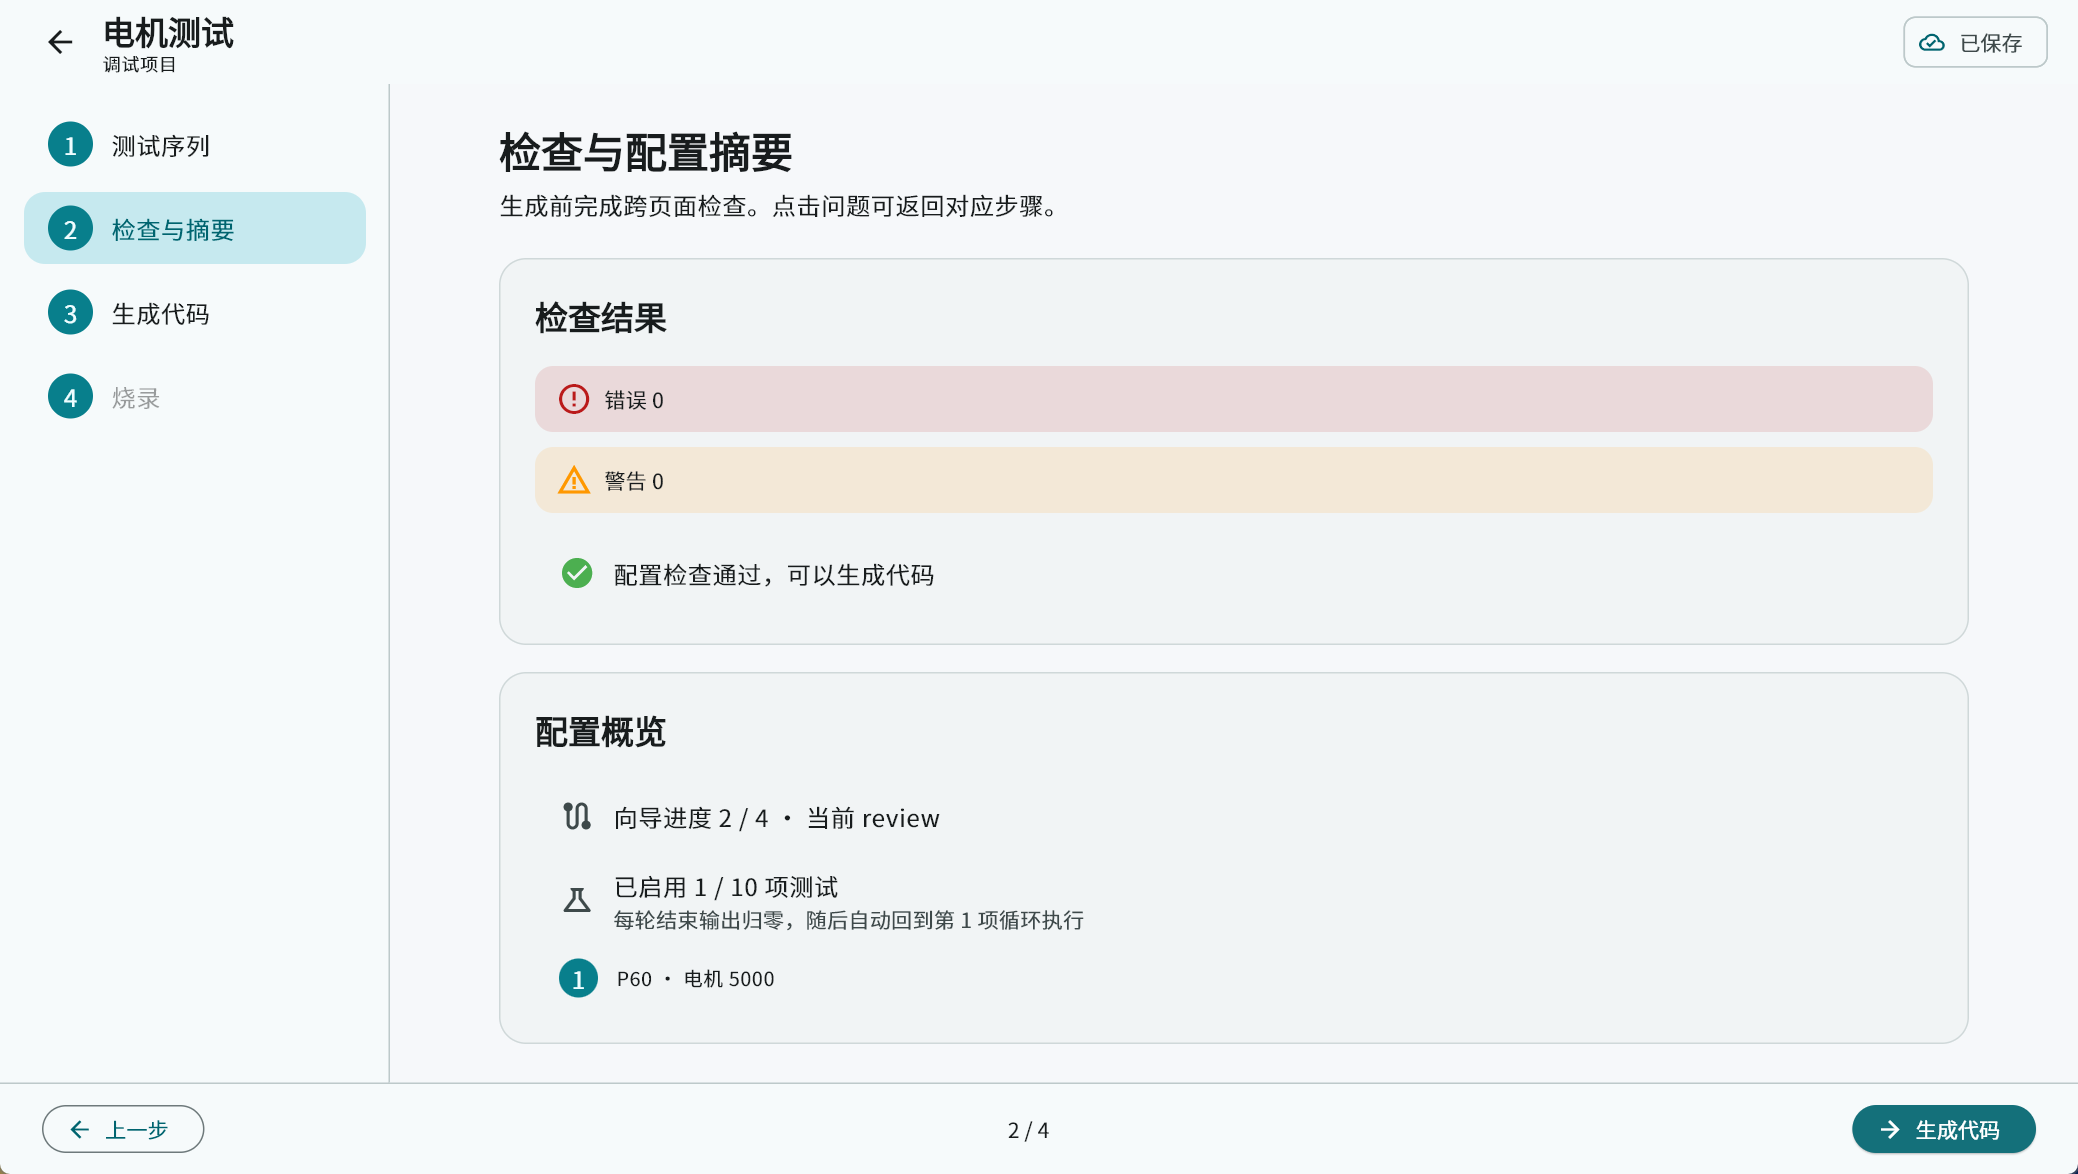
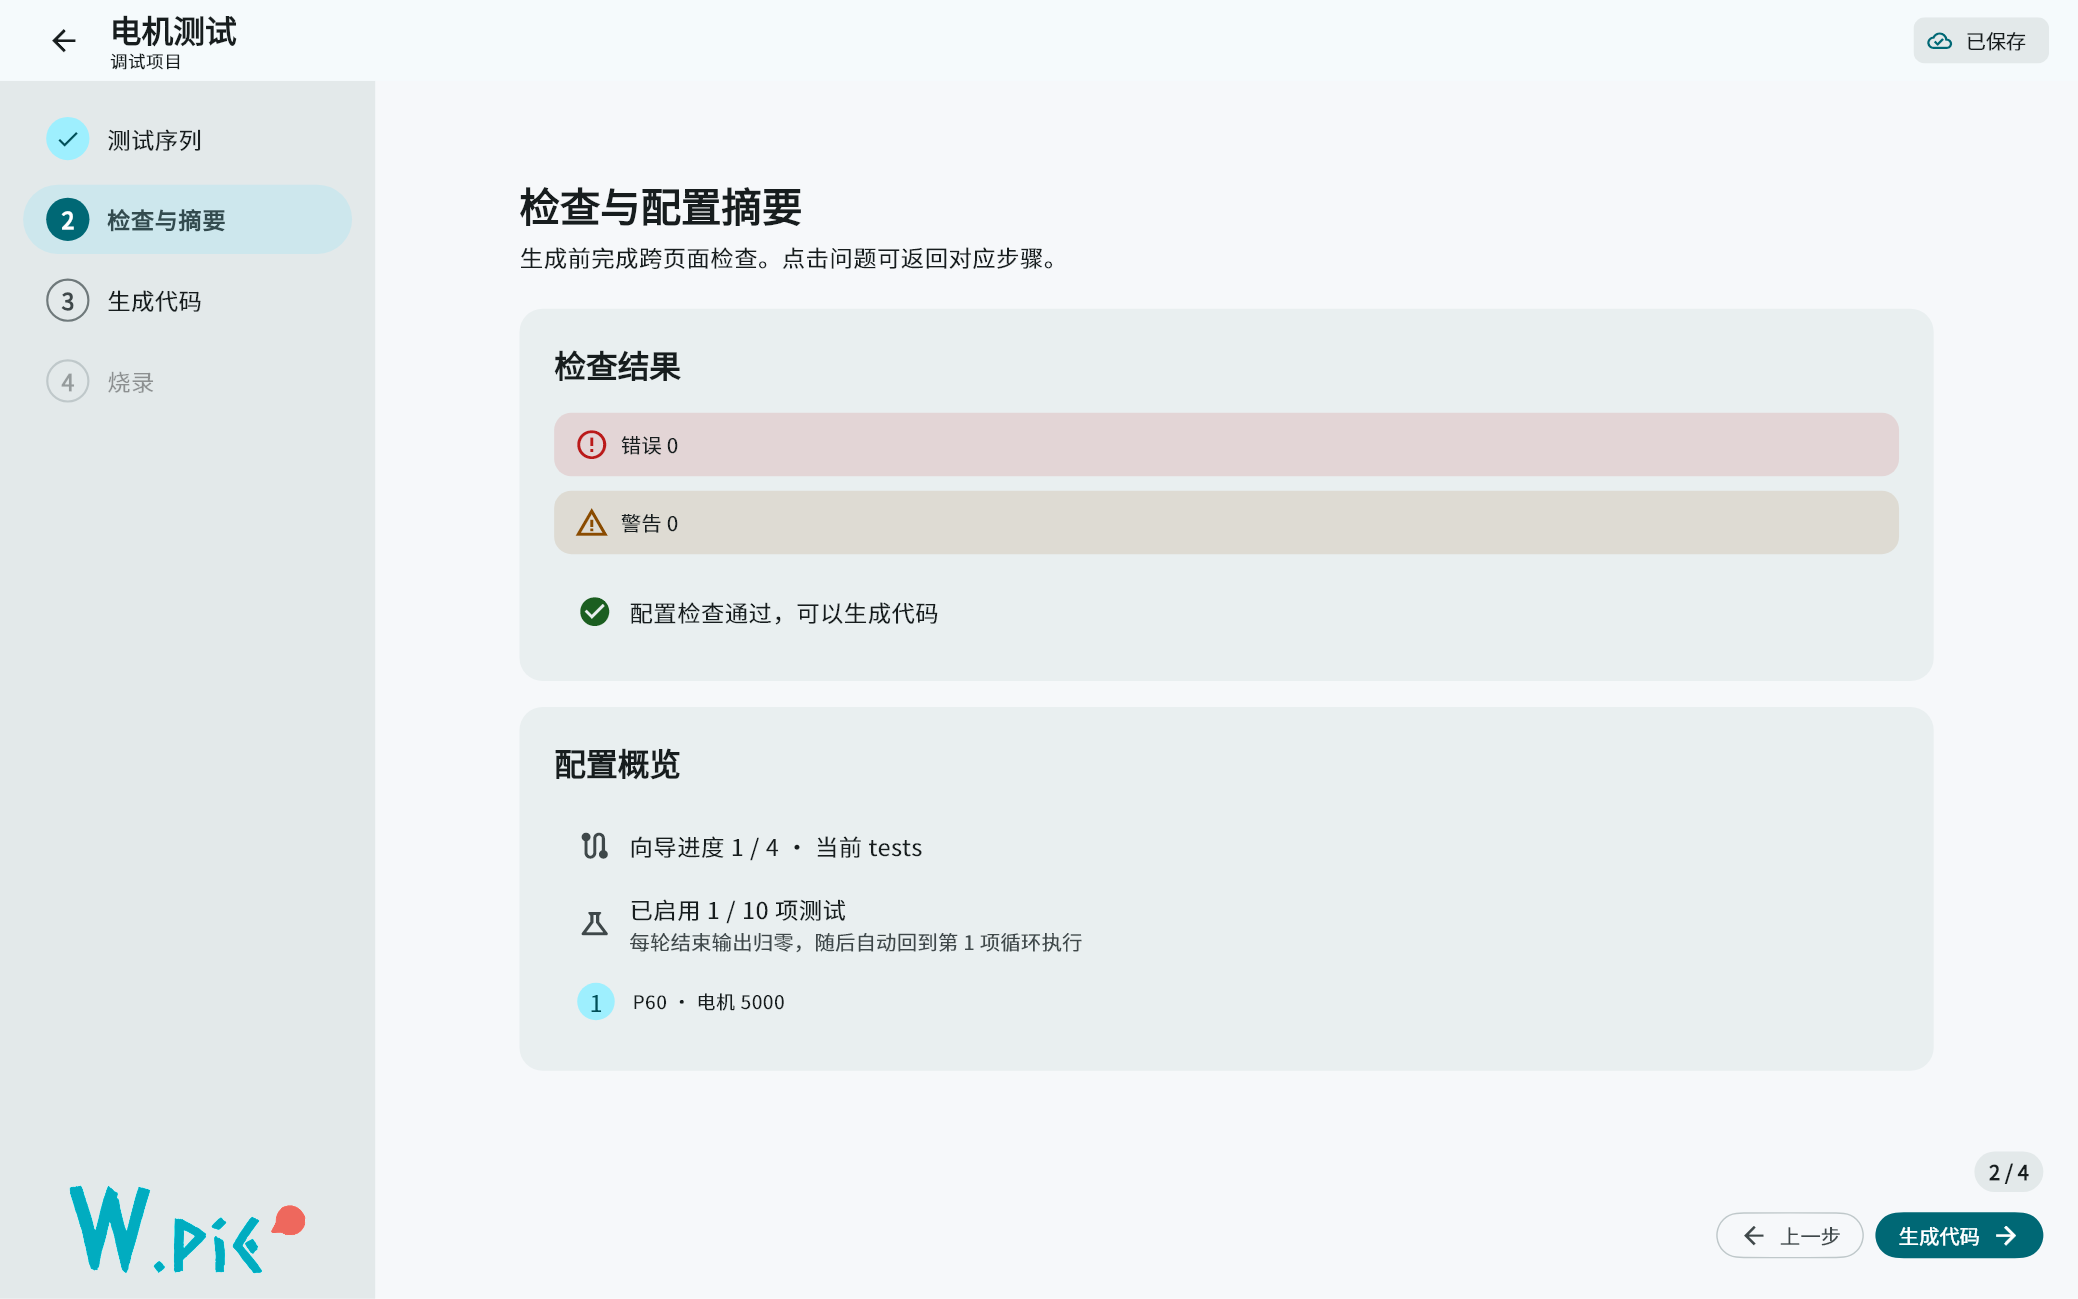
docs(book): 第 2 章截图纳入生成脚本并改用新版界面

diff --git a/tool/book_screenshots_chapters_test.dart b/tool/book_screenshots_chapters_test.dart
@@ -1,4 +1,4 @@
-// 教材第 1、3、4、6、7、8、9、10 章的软件截图生成器。
+// 教材第 1、2、3、4、6、7、8、9、10 章的软件截图生成器。
 //
 // ⚠ 手动运行，刻意放在 `tool/` 下：`flutter test` 默认只收集 `test/`。
 //
@@ -25,6 +25,7 @@ import 'package:flutter/services.dart';
 import 'package:flutter_riverpod/flutter_riverpod.dart';
 import 'package:flutter_test/flutter_test.dart';
 import 'package:material_ui/material_ui.dart';
+import 'package:pieblock_app/src/asm_preview_controller.dart';
 import 'package:pieblock_app/src/controller.dart';
 import 'package:pieblock_app/src/deploy_controller.dart';
 import 'package:pieblock_app/src/design/app_theme.dart';
@@ -65,6 +66,48 @@ class _FakeDeployController extends DeployController {
 
   @override
   void cancelAll() {}
+}
+
+/// 烧录页截图用：带一份真实构建产物的状态，不真的编译也不碰硬件。
+class _BuiltDeployController extends DeployController {
+  _BuiltDeployController(this._state);
+
+  final DeployState _state;
+
+  @override
+  DeployState build() => _state;
+
+  @override
+  Future<void> prepare(
+    ProjectConfig config,
+    CompilerKind compiler, {
+    String? keilRoot,
+  }) async {}
+
+  @override
+  Future<void> refreshDevices() async {}
+
+  @override
+  void cancelAll() {}
+}
+
+/// 生成代码页截图用：直接给出已编译好的列表文件，跳过真实构建。
+class _ReadyAsmPreviewController extends AsmPreviewController {
+  _ReadyAsmPreviewController(this._listing);
+
+  final String _listing;
+
+  @override
+  AsmPreviewState build() => AsmPreviewState(
+    activity: AsmPreviewActivity.ready,
+    listing: _listing,
+  );
+
+  @override
+  Future<void> compile(ProjectConfig config) async {}
+
+  @override
+  Future<void> recompile(ProjectConfig config) async {}
 }
 
 Future<ProjectDocument> _loadExample(String fileName) async {
@@ -140,6 +183,8 @@ Future<GlobalKey> _pump(
   WidgetTester tester, {
   required Widget child,
   required int logicalHeight,
+  DeployState? deployState,
+  String? asmListing,
 }) async {
   tester.view.devicePixelRatio = 2;
   tester.view.physicalSize = Size(_logicalWidth * 2, logicalHeight * 2);
@@ -154,7 +199,15 @@ Future<GlobalKey> _pump(
       key: boundaryKey,
       child: ProviderScope(
         overrides: [
-          deployControllerProvider.overrideWith(_FakeDeployController.new),
+          deployControllerProvider.overrideWith(
+            deployState == null
+                ? _FakeDeployController.new
+                : () => _BuiltDeployController(deployState),
+          ),
+          if (asmListing != null)
+            asmPreviewControllerProvider.overrideWith(
+              () => _ReadyAsmPreviewController(asmListing),
+            ),
         ],
         child: MaterialApp(
           debugShowCheckedModeBanner: false,
@@ -175,15 +228,21 @@ Future<GlobalKey> _pumpWizard(
   required ProjectDocument document,
   required int step,
   required int logicalHeight,
+  String? projectPath,
+  DeployState? deployState,
+  String? asmListing,
 }) => _pump(
   tester,
   logicalHeight: logicalHeight,
+  deployState: deployState,
+  asmListing: asmListing,
   child: ProviderScope(
     overrides: [
       appControllerProvider.overrideWith(
         () => _StaticAppController(
           AppState(
             document: document,
+            path: projectPath,
             step: step,
             maxVisitedStep: step,
             saveStatus: SaveStatus.saved,
@@ -295,6 +354,9 @@ void main() {
   late ProjectDocument infantry;
   late ProjectDocument debug;
   late ProjectDocument music;
+  late ProjectDocument chapterTwo;
+  late String chapterTwoListing;
+  late DeployState chapterTwoDeploy;
 
   setUpAll(() async {
     await _loadBookFonts();
@@ -304,6 +366,109 @@ void main() {
     _expectNoErrors('infantry-standard.pieproj', infantry);
     _expectNoErrors('debug-checklist.pieproj', debug);
     _expectNoErrors('music-twinkle.pieproj', music);
+
+    // 第 2 章：调试工程“电机测试”，只启用 P60 一路电机（电机 / 5000 / 3000 ms）。
+    chapterTwo = ProjectDocument.create(ProjectKind.debug).copyWith(
+      config: DebugConfig(
+        tests: <DebugTestItem>[
+          for (final pin in debugPins)
+            pin == 'P60'
+                ? const DebugTestItem(
+                    pin: 'P60',
+                    enabled: true,
+                    driveType: DebugDriveType.motor,
+                    value: 5000,
+                    durationMs: 3000,
+                  )
+                : DebugTestItem(pin: pin),
+        ],
+      ),
+    );
+
+    // 第 2 章的汇编与烧录截图引用真实构建产物：
+    // 先运行 `dart run tool/build_book_firmware.dart` 生成 build/book_firmware。
+    final listingFile = File(
+      'build/book_firmware/debug-checklist/main.rst',
+    );
+    final buildFile = File('build/book_firmware/debug-checklist/build.json');
+    expect(
+      listingFile.existsSync(),
+      isTrue,
+      reason: '缺少 ${listingFile.path}，先运行 dart run tool/build_book_firmware.dart',
+    );
+    expect(
+      buildFile.existsSync(),
+      isTrue,
+      reason: '缺少 ${buildFile.path}，先运行 dart run tool/build_book_firmware.dart',
+    );
+    chapterTwoListing = listingFile
+        .readAsLinesSync()
+        .take(220)
+        .join('\n');
+    final build = jsonDecode(buildFile.readAsStringSync()) as Map<String, Object?>;
+    chapterTwoDeploy = DeployState(
+      compilerFingerprint: '内置 SDCC C251',
+      artifact: BuildArtifact(
+        hexPath: build['hex']! as String,
+        hexSha256: build['hexSha256']! as String,
+        fingerprint: 'book-screenshot',
+        sourceSha256: 'book-screenshot',
+        compiler: CompilerKind.sdcc,
+        compilerFingerprint: '内置 SDCC C251',
+        templateVersion: '21',
+        builtAt: DateTime.parse(build['builtAt']! as String),
+        byteCount: build['hexBytes']! as int,
+        warningCount: build['warnings']! as int,
+      ),
+    );
+  });
+
+  _screenshotTest('2-1 调试测试序列：启用 P60', (tester) async {
+    final key = await _pumpWizard(
+      tester,
+      document: chapterTwo,
+      step: 0,
+      logicalHeight: 900,
+      projectPath: '电机测试.pieproj',
+    );
+    await _saveScreenshot(tester, key, 'ch02/2-1-tests.png');
+  });
+
+  _screenshotTest('2-2 检查与摘要：0 错误 0 警告', (tester) async {
+    final key = await _pumpWizard(
+      tester,
+      document: chapterTwo,
+      step: 1,
+      logicalHeight: 900,
+      projectPath: '电机测试.pieproj',
+    );
+    await _saveScreenshot(tester, key, 'ch02/2-2-review.png');
+  });
+
+  _screenshotTest('2-3 生成代码：汇编列表 main.rst', (tester) async {
+    final key = await _pumpWizard(
+      tester,
+      document: chapterTwo,
+      step: 2,
+      logicalHeight: 900,
+      projectPath: '电机测试.pieproj',
+      asmListing: chapterTwoListing,
+    );
+    await tester.tap(find.text('汇编'));
+    await _settle(tester);
+    await _saveScreenshot(tester, key, 'ch02/2-3-listing.png');
+  });
+
+  _screenshotTest('2-4 烧录页：构建产物', (tester) async {
+    final key = await _pumpWizard(
+      tester,
+      document: chapterTwo,
+      step: 3,
+      logicalHeight: 900,
+      projectPath: '电机测试.pieproj',
+      deployState: chapterTwoDeploy,
+    );
+    await _saveScreenshot(tester, key, 'ch02/2-4-deploy.png');
   });
 
   _screenshotTest('1-1 首页', (tester) async {

diff --git a/book/chapters/ch02.tex b/book/chapters/ch02.tex
@@ -27,15 +27,16 @@
 \begin{itemize}
   \item \textbf{驱动类型}：电机、舵机或摩擦轮。引脚能力不同，下拉框只给出该引脚支持的
         类型；
-  \item \textbf{方向}：正向或反向，用来在不改接线的情况下纠正转向；
-  \item \textbf{速度}：电机为速度值，舵机为角度，摩擦轮为最大占空比；
+  \item \textbf{速度（带符号）}：电机为速度值，舵机为角度，摩擦轮为最大占空比。符号
+        即方向：正数按默认方向，负数反向，用来在不改接线的情况下纠正转向；
   \item \textbf{测试时长}：该项持续的时间，单位为毫秒。
 \end{itemize}
 
-示例中 P60 设为“电机 / 正向 / 5000 / 3000 ms”。左侧的拖动手柄可以调整顺序；固件会按
-列表顺序逐项执行，跑完最后一项后自动回到第 1 项，如此循环。页面上方的“提示音试听”把
-第 $N$ 项对应到上行音型的第 $N$ 个音，装车后即使看不到屏幕，也能凭声音判断当前执行到
-哪一项。右上角的“已保存”表示配置已经自动写入项目文件，不需要手动保存。
+示例中 P60 设为“电机 / 5000 / 3000 ms”（速度为正，即默认方向）。左侧的拖动
+手柄可以调整顺序；固件会按列表顺序逐项执行，跑完最后一项后自动回到第 1 项，
+如此循环。页面上方的“提示音试听”把第 $N$ 项对应到上行音型的第 $N$ 个音，
+装车后即使看不到屏幕，也能凭声音判断当前执行到哪一项。右上角的“已保存”表示
+配置已经自动写入项目文件，不需要手动保存。
 
 \subsection{静态检查}
 
@@ -77,7 +78,7 @@ PIE-Block 才会调用内置的 SDCC C251 工具链做一次完整构建。
 
 第 4 步“烧录”如图~\ref{fig:ch02-deploy} 所示。页面顶部选择编译器：“内置 SDCC C251”
 可完全离线使用，“Keil C251”则调用本机安装的 Keil。示例使用内置工具链，构建产物为
-36344 字节，并给出生成时间与警告数。
+36975 字节，并给出生成时间与 13 条警告。
 
 \begin{figure}[htbp]
   \centering

diff --git a/book/README.md b/book/README.md
@@ -95,10 +95,12 @@ flutter test test/book_examples_test.dart     # 校验、生成 C、试算断言
 flutter test tool/book_screenshots_test.dart
 ```
 
-重新生成第 1、3、4、6、7、8、9、10 章软件截图（会覆盖
+重新生成第 1、2、3、4、6、7、8、9、10 章软件截图（会覆盖
 `image/ch01…ch10/*.png`）：
 
 ```bash
+# 第 2 章的汇编与烧录图引用真实构建产物，先跑一次固件构建
+dart run tool/build_book_firmware.dart
 flutter test tool/book_screenshots_chapters_test.dart
 ```
 
